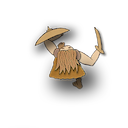
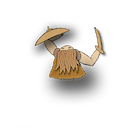
Fine tuned the character running animation

Changed region(s): [[0.5625, 0.5938, 0.6562, 0.7188], [0.4375, 0.3125, 0.5312, 0.4062]]

diff --git a/js/objects/top-character.js b/js/objects/top-character.js
@@ -6,9 +6,9 @@ export default class TopCharacter {
               context,
               x = randomX(),
               y = randomY(),
-              radius = (Math.random() * 40) + 10,
+              radius = 100,
               movementRate = 2,
-              imageSwitchRate = 250,
+              imageSwitchRate = 75,
             } = {}) {
     this.context = context;
     this.x = x;
@@ -74,7 +74,15 @@ export default class TopCharacter {
       }
 
       this.updateDirection();
-      let image = new StaticImage({ context: this.context, png: imageArray[this.imageIndex], x: this.x, y: this.y, angle: this.direction });
+      let image = new StaticImage({
+        context: this.context,
+        png: imageArray[this.imageIndex],
+        x: this.x,
+        y: this.y,
+        width: this.radius,
+        height: this.radius,
+        angle: this.direction
+      });
 
       image.draw();
     }
@@ -89,6 +97,16 @@ export default class TopCharacter {
       walk: [
         "/images/enmerkar/enmerkar-walk-1.png",
         "/images/enmerkar/enmerkar-walk-2.png",
+        "/images/enmerkar/enmerkar-walk-3.png",
+        "/images/enmerkar/enmerkar-walk-4.png",
+        "/images/enmerkar/enmerkar-walk-5.png",
+        "/images/enmerkar/enmerkar-walk-6.png",
+        "/images/enmerkar/enmerkar-walk-7.png",
+        "/images/enmerkar/enmerkar-walk-8.png",
+        "/images/enmerkar/enmerkar-walk-9.png",
+        "/images/enmerkar/enmerkar-walk-10.png",
+        "/images/enmerkar/enmerkar-walk-11.png",
+        "/images/enmerkar/enmerkar-walk-12.png",
       ],
       stand: [
         "/images/enmerkar/enmerkar-walk-1.png",

diff --git a/js/elements/cpg-enmerkar.js b/js/elements/cpg-enmerkar.js
@@ -45,7 +45,7 @@ export default class CpgEnmerkar extends HTMLElement {
     this.example = parseFloat(this.getAttribute('example')) || 5;
     /* --------------------- */
 
-    this.character = new TopCharacter({ context: this.context, radius: 50, x: this.canvas.width / 2, y: this.canvas.height / 2 });
+    this.character = new TopCharacter({ context: this.context, radius: 128, x: this.canvas.width / 2, y: this.canvas.height / 2 });
 
     var self = this;
     function animate() {

diff --git a/js/objects/static-image.js b/js/objects/static-image.js
@@ -35,7 +35,6 @@ export default class StaticImage {
     offscreenCanvas.width = this.png.width;
     offscreenCanvas.height = this.png.height;
     offscreenCtx.translate(this.png.width/2, this.png.height/2);
-    //offscreenCtx.rotate(this.angle / (Math.PI * 180));
     offscreenCtx.rotate((this.angle * Math.PI) / 180);
     offscreenCtx.drawImage(this.png, -(this.png.width/2), -(this.png.height/2));
     this.context.drawImage(offscreenCanvas, this.x, this.y);
